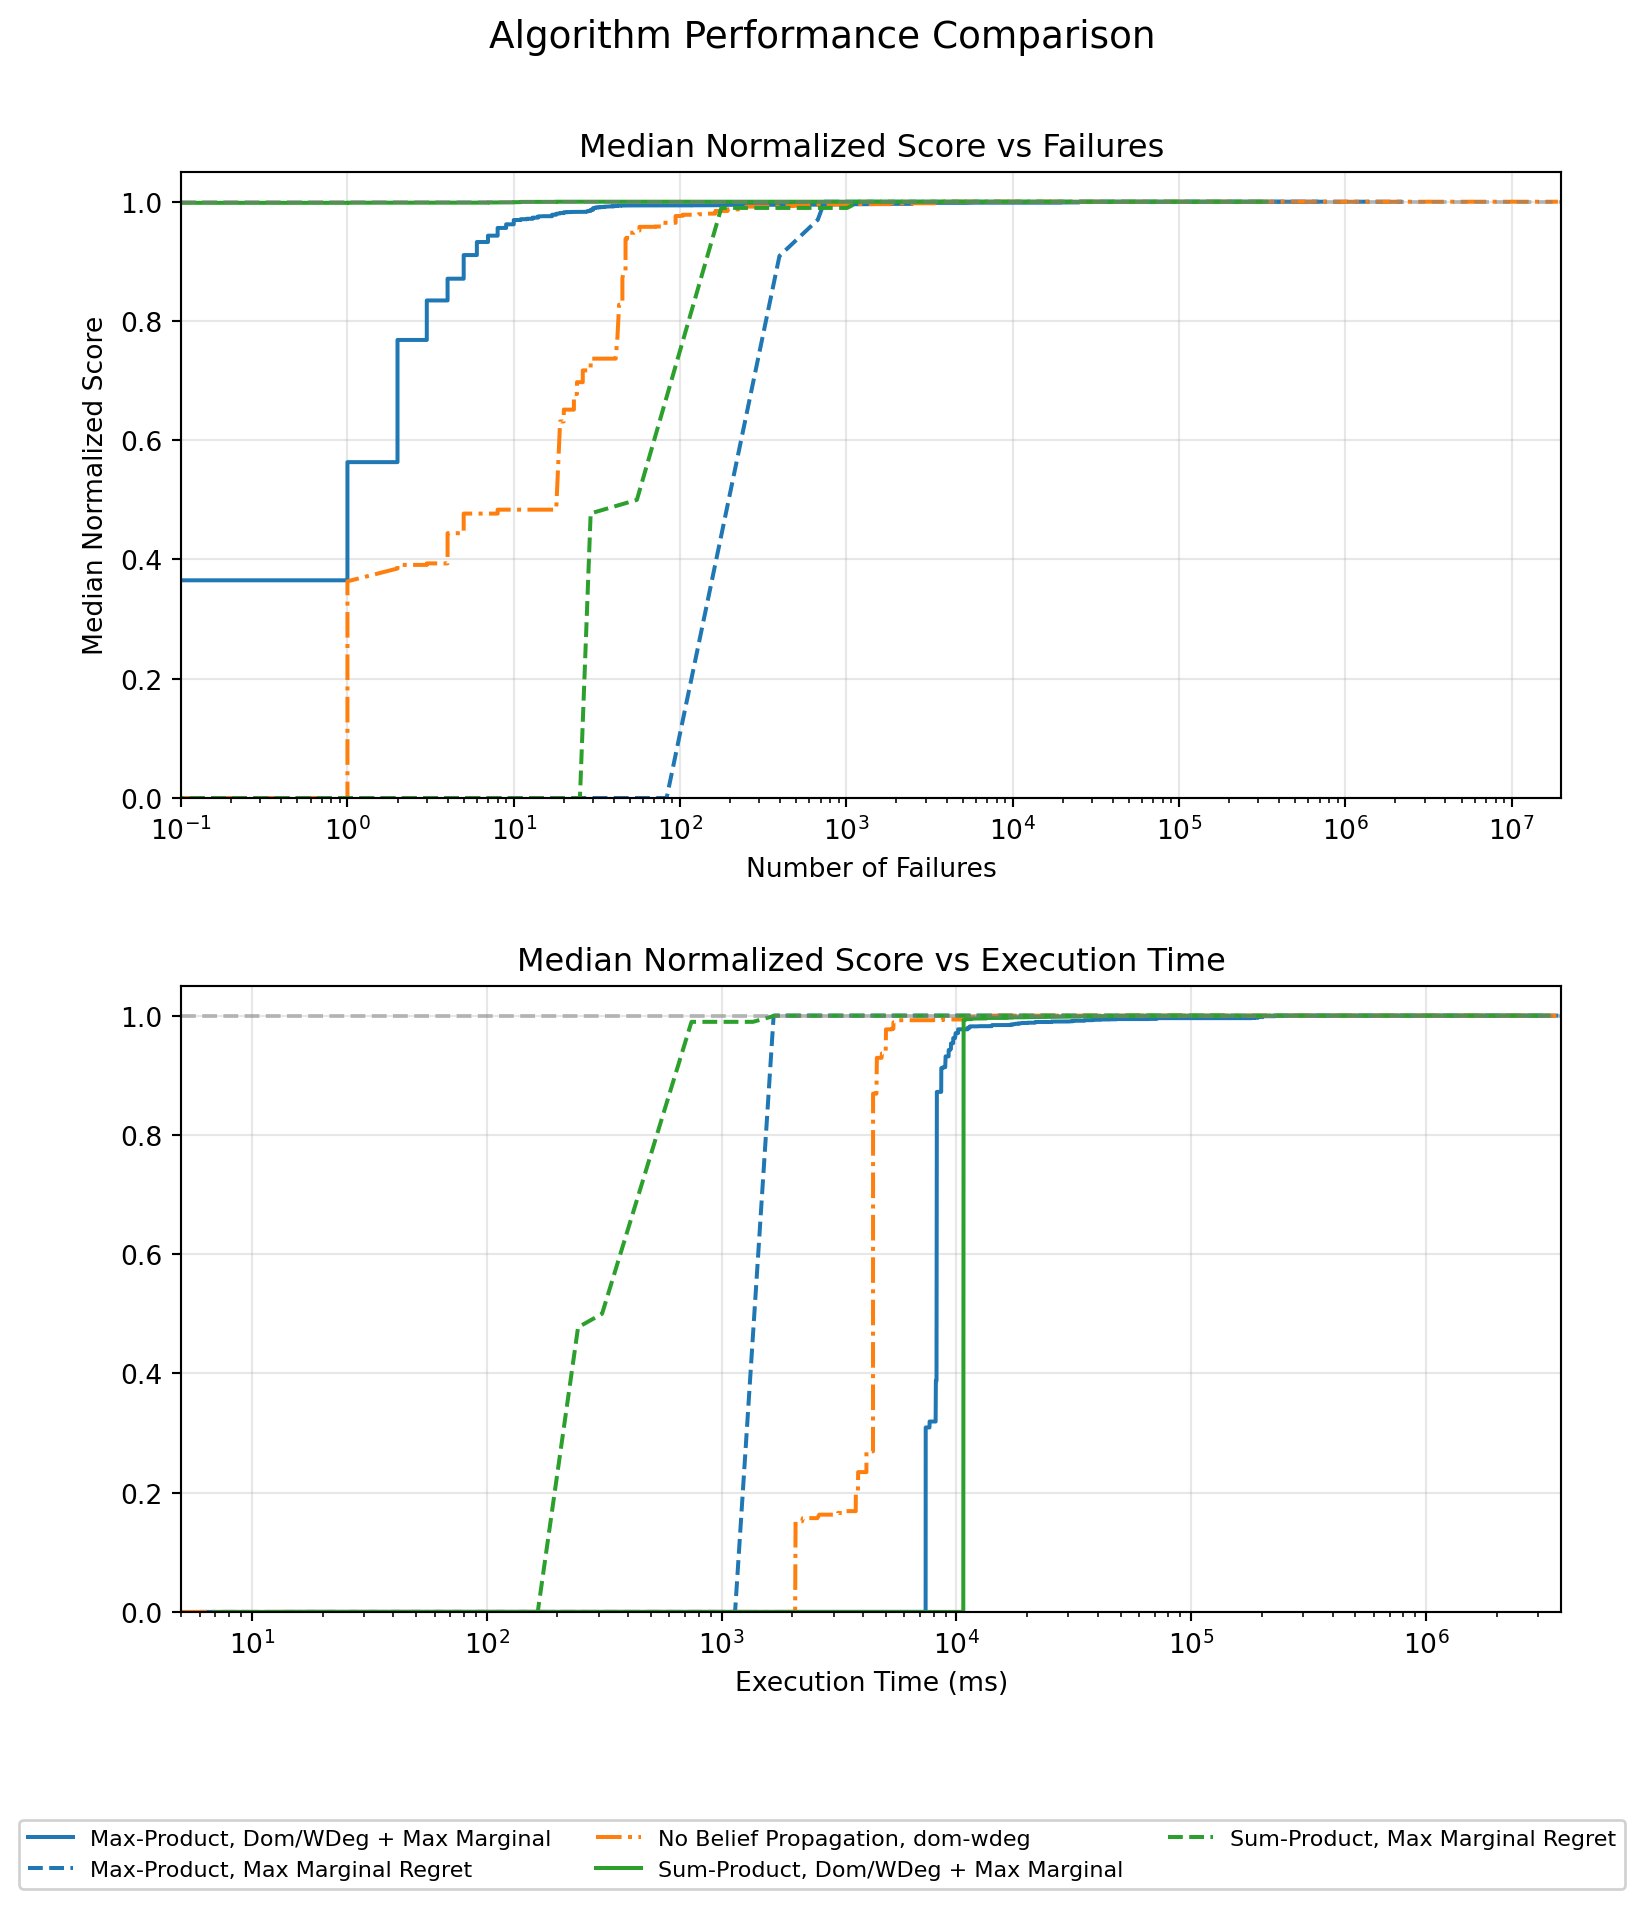
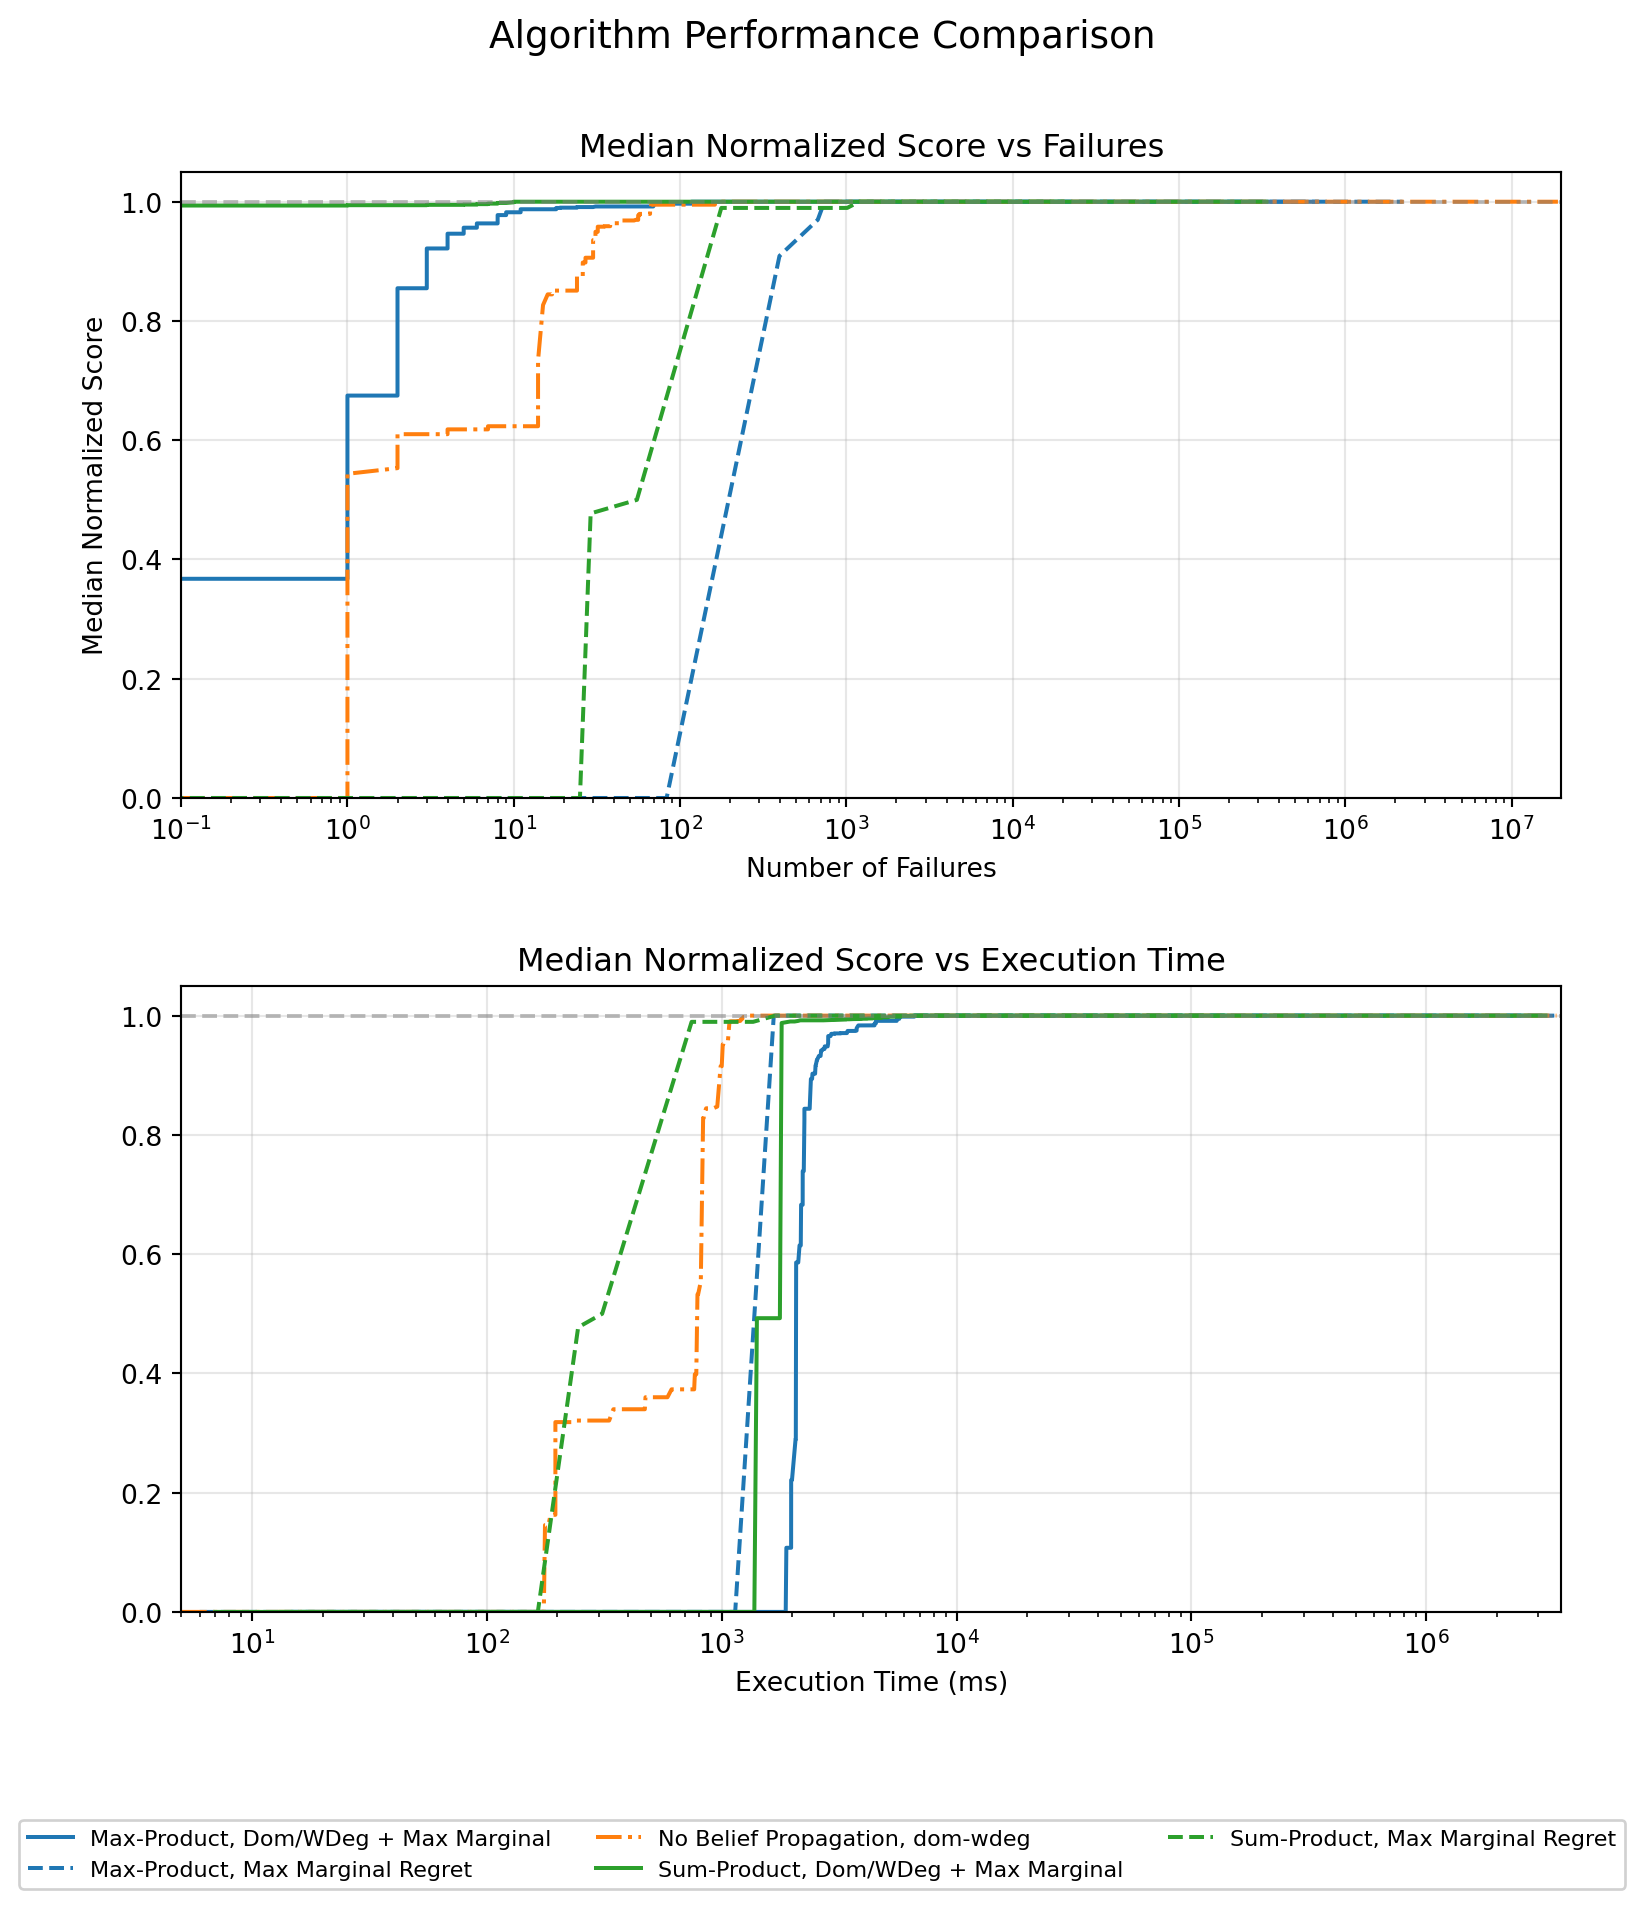
xcsp updates

diff --git a/cpbp/xcsp/lowautocorrelation.html b/cpbp/xcsp/lowautocorrelation.html
@@ -99,7 +99,7 @@ pre > code.sourceCode > span > a:first-child::before { text-decoration: underlin
 
 
 <p>This notebook demonstrates the functionality of the XCSP experiment analysis pipeline. We focus on loading experiment data, grouping by algorithm parameters, and preparing data for visualization.</p>
-<div id="7d958659" class="cell" data-execution_count="1">
+<div id="19337ac5" class="cell" data-execution_count="1">
 <details class="code-fold">
 <summary>Code</summary>
 <div class="sourceCode cell-code" id="cb1"><pre class="sourceCode python code-with-copy"><code class="sourceCode python"><span id="cb1-1"><a href="#cb1-1" aria-hidden="true" tabindex="-1"></a><span class="im">import</span> experiment_api <span class="im">as</span> api</span>
@@ -152,7 +152,7 @@ pre > code.sourceCode > span > a:first-child::before { text-decoration: underlin
 </details>
 <div class="cell-output cell-output-stdout">
 <pre><code>Loading knapsack experiment logs...
-Loaded 485 total experiment logs
+Loaded 250 total experiment logs
 Creating mean normalized score plots...
 Data has been normalized successfully</code></pre>
 </div>